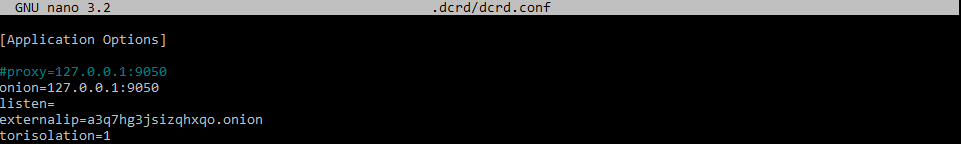
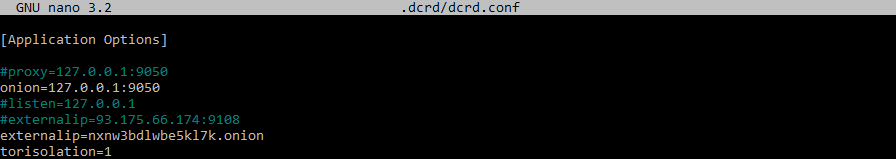
hopefully the last round of fixes

Changed region(s): [[0.0, 0.4167, 0.3125, 1.0], [0.0, 0.0, 1.0, 0.1111], [0.0, 0.1944, 0.1875, 0.3333]]

diff --git a/English/howilearnedtostopworryingandlovethecli/part2-configuringtor.md b/English/howilearnedtostopworryingandlovethecli/part2-configuringtor.md
@@ -69,27 +69,28 @@ and, once again, editing the top of the file to look something like this:
 
 ![](../../img/tor5.PNG)
 
+For now ignore the lines with a hashtag in front of them, as they are temporarily disabled.
+
 #### Now a word or two about the `proxy` and `onion` lines.
 
 At the beginning of this part I mentioned that maximising the benefit to the Decred network will be my priority. With TOR there are two paths you can follow:
 
-- the `proxy` route will make your node behave like as a TOR client. It will check for new blocks, transactions and synchronise over the TOR network. If you want your node to be **anonymous** then **this is the option you should choose**, and your **dcrd.conf** file should look like this:
+- the `proxy` flag by itself would make your node behave like as a TOR client, **but** since we took the time to set up a hidden service we will also be able to accept connections from others connecting to the Decred network through TOR. In short, our node will check for new blocks, transactions and synchronise over the TOR network and act as a peer for other anonymous TOR **dcrd** nodes. If you want your node to be **anonymous** then **this is the option you should choose**, and your **dcrd.conf** file should look like this:
 
 ```[Application Options]
 
 proxy=127.0.0.1:9050
-listen=
-externalip=a3q7hg3jsizqhxqo.onion
+listen=127.0.0.1
+externalip=nxnw3bdlwbe5kl7k.onion
 torisolation=1
 ```
 
-- the `onion` route, however, makes your node act as a bridge between the TOR network and traffic over regular Internet, as is an example of a client-server setup. As a result, your own node's traffic **will not** be anonymous, but the benefit of that is that **both** the clearnet and the TOR nodes can connect to your node as peers. I feel that out of the two options this affects the network in the most positive way, so this is the route I will go, and my **dcrd.conf** file will look like this:
+- the `onion` route, like the one above, is also an example of a client-server setup, which makes your node act as a bridge between the TOR network and traffic over regular Internet.  As a result, your own node's traffic **will not** be anonymous, but the benefit of that is that **both** the clearnet and the TOR nodes can connect to your node as peers, and your node accepts the TOR connections via TOR, and regular ones via clearnet. Even at the cost of this node's anonymity, I feel that out of the two options this one affects the network in the most positive way, so this is the route I will go, and my **dcrd.conf** file will look like this:
 
 ```[Application Options]
 
 onion=127.0.0.1:9050
-listen=
-externalip=a3q7hg3jsizqhxqo.onion
+externalip=nxnw3bdlwbe5kl7k.onion
 torisolation=1
 ```
 
@@ -97,9 +98,9 @@ The **dcrd.conf** file has this to say about the `listen` argument:
 
 > Specifying a proxy will disable listening for incoming connections unless listen addresses are provided via the 'listen' option.
 
-Therefore, if you pick the `proxy` path, you need it for **dcrd** to listen for incoming connections. Personally, even though it is not required, I left the `listen` argument in even for the `onion` path, as I found that it helps with node visibility if your setup requires port forwarding.
+Therefore, if you pick the `proxy` path, you need it for **dcrd** to listen for incoming connections, because the proxy path disables this function by default. You need to specify the localhost address of your Pi, `127.0.0.1`, so that it only listens for connections originating from and sent to that address.
 
-In both options connections over TOR should be coming thanks to specifying the `externalip` argument and setting it to the **.onion** address you acquired a moment ago.
+In both options connections over TOR should be coming to our node thanks to specifying the `externalip` argument and setting it to the **.onion** address you acquired a moment ago.
 
 The `torisolation` argument, to quote our docs once more:
 
@@ -139,6 +140,11 @@ Final confirmation of things working as intended is when you start seeing inboun
 
 ![](../../img/tor8.PNG)
 
+Do not worry if you don't start seeing them quickly, though, as in the words of @davecgh
+
+> even if everything is configured properly, you won't see inbound conns for several days on average.
+The network is intentionally designed to favor nodes that have a track record over new nodes to help prevent things like a bad actor firing up a bunch of malicious nodes with the intent to sybil.
+
 With a **dcrd** node set up in this fashion you can close your SSH session without worrying that your node will shut down. On a related note, I think it goes without saying that your Raspberry Pi needs to remain connected to power in order to keep  working, but in the event you do need to switch it off, please do the following:
 
 - log into your Pi
@@ -157,4 +163,4 @@ Thanks to @jz for writing the now-classic guide for setting up solo staking and 
 
 Thanks to @karamble for showing me that the Decred experience does not end at GUI wallets.
 
-Thanks to @Exitus for very helpful feedback on the draft.
+Thanks to @Exitus for very helpful feedback on the draft and the folks in our #writers room for comments and explanation on all things Decred.
